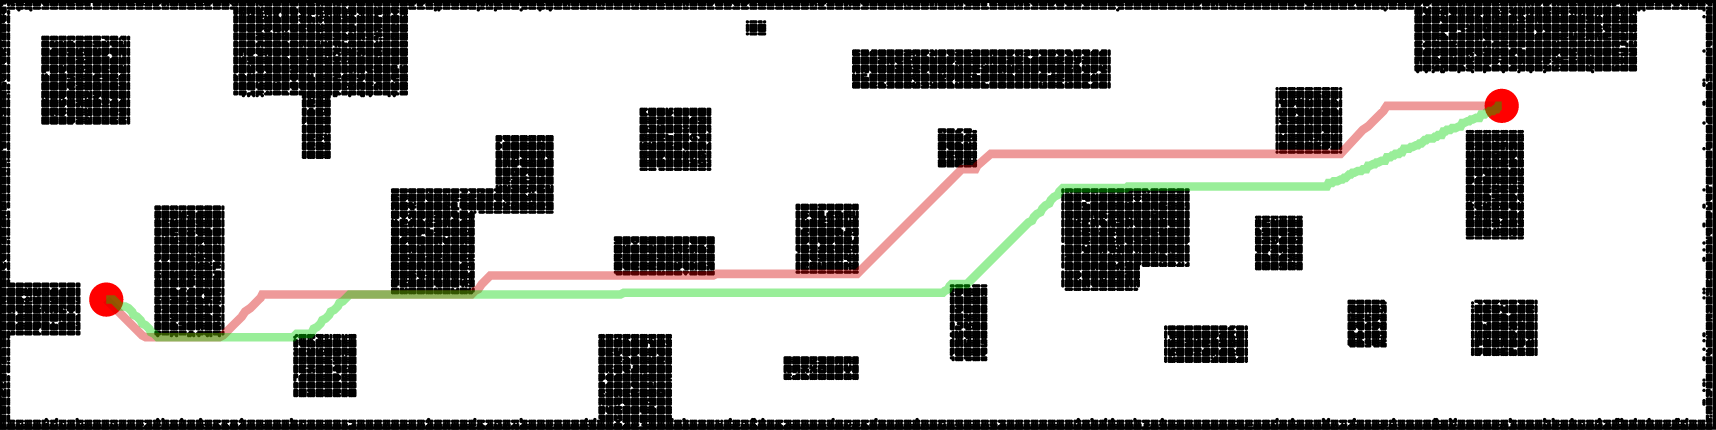
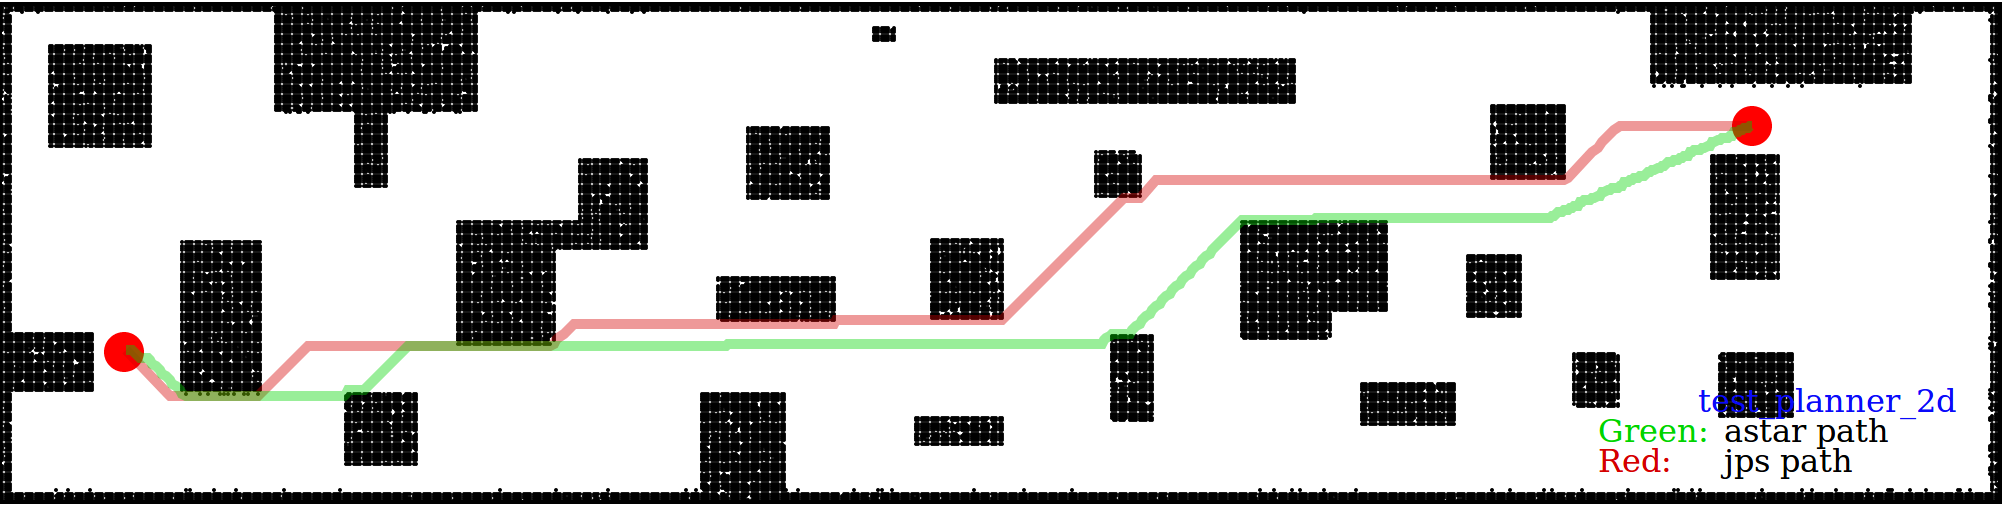
add title in the test images

diff --git a/test/test_distance_map_planner_2d.cpp b/test/test_distance_map_planner_2d.cpp
@@ -46,7 +46,7 @@ int main(int argc, char ** argv){
 
   // Set up DMP planner
   DMPlanner2D dmp(false);
-  dmp.setMapUtil(map_util); // Set map uti for collision checking
+  dmp.setMapUtil(map_util); // Set map util for collision checking
   dmp.setPotentialRadius(Vec2f(1.0, 1.0)); // Set 2D potential field radius
   dmp.setSearchRadius(Vec2f(0.5, 0.5)); // Set the valid search region around given path
 
@@ -114,6 +114,14 @@ int main(int argc, char ** argv){
     }
   }
 
+  // Draw searched region
+  for (const auto &pt : dmp.getSearchRegion()) {
+    point_2d a;
+    boost::geometry::assign_values(a, pt(0), pt(1));
+    mapper.add(a);
+    mapper.map(a, "fill-opacity:0.2;fill:rgb(100,200,100);", 1); // Green
+  }
+
   // Draw the path from JPS
   if(valid_jps) {
     vec_Vec2f path = path_jps;
@@ -131,9 +139,27 @@ int main(int argc, char ** argv){
     for(auto pt: path)
       line.push_back(point_2d(pt(0), pt(1)));
     mapper.add(line);
-    mapper.map(line, "opacity:0.4;fill:none;stroke:rgb(1,212,0);stroke-width:5"); // Green
+    mapper.map(line, "opacity:0.8;fill:none;stroke:rgb(10,10,250);stroke-width:5"); // Blue
   }
 
+  // Write title at the lower right corner on canvas
+  mapper.text(point_2d(origin_x + range_x - 11, origin_y+2.4), "test_distance_map_planner_2d",
+              "fill-opacity:1.0;fill:rgb(10,10,250);");
+
+  mapper.text(point_2d(origin_x + range_x - 13, origin_y+1.8), "Green: ",
+              "fill-opacity:1.0;fill:rgb(100,200,100);");
+  mapper.text(point_2d(origin_x + range_x - 10.5, origin_y+1.8), "search region",
+              "fill-opacity:1.0;fill:rgb(0,0,0);");
+
+  mapper.text(point_2d(origin_x + range_x - 13, origin_y+1.2), "Red: ",
+              "fill-opacity:1.0;fill:rgb(212,0,0);");
+  mapper.text(point_2d(origin_x + range_x - 10.5, origin_y+1.2), "original path",
+              "fill-opacity:1.0;fill:rgb(0,0,0);");
+
+  mapper.text(point_2d(origin_x + range_x - 13, origin_y+0.6), "Blue:",
+              "fill-opacity:1.0;fill:rgb(10,10,250);");
+  mapper.text(point_2d(origin_x + range_x - 10.5, origin_y+0.6), "perturbed path",
+              "fill-opacity:1.0;fill:rgb(0,0,0);");
 
   return 0;
 }

diff --git a/test/test_planner_2d.cpp b/test/test_planner_2d.cpp
@@ -120,6 +120,19 @@ int main(int argc, char ** argv){
     mapper.map(line, "opacity:0.4;fill:none;stroke:rgb(1,212,0);stroke-width:5"); // Green
   }
 
+  // Write title at the lower right corner on canvas
+  mapper.text(point_2d(origin_x + range_x - 6, origin_y+1.8), "test_planner_2d",
+              "fill-opacity:1.0;fill:rgb(10,10,250);");
+
+  mapper.text(point_2d(origin_x + range_x - 8, origin_y+1.2), "Green: ",
+              "fill-opacity:1.0;fill:rgb(1,212,0);");
+  mapper.text(point_2d(origin_x + range_x - 5.5, origin_y+1.2), "astar path",
+              "fill-opacity:1.0;fill:rgb(0,0,0);");
+
+  mapper.text(point_2d(origin_x + range_x - 8, origin_y+0.6), "Red: ",
+              "fill-opacity:1.0;fill:rgb(212,0,0);");
+  mapper.text(point_2d(origin_x + range_x - 5.5, origin_y+0.6), "jps path",
+              "fill-opacity:1.0;fill:rgb(0,0,0);");
 
   return 0;
 }

diff --git a/README.md b/README.md
@@ -122,7 +122,7 @@ User can easily change the location of blocks in the source code.
 ## DMP Usage
 As mentioned before, `DMPlanner` stands for distance map planner which utilizes the artificial potential field to find a safer local path around a given path for the robot to navigate.
 The key feature of this planner is its ability to push the path away from obstacles as much as possible. An example is given in the following figure
-[example_dmp.png](https://github.com/sikang/jps3d/blob/master/data/example_dmp.png), where red path is from `JPS` which is always attached to obstacles and green path is derived from `DMP` which is much safer.
+[example_dmp.png](https://github.com/sikang/jps3d/blob/master/data/example_dmp.png), where red path comes from `JPS` which is always attached to obstacles and blue path is derived from `DMP` which is much safer.
 
 ![Visualization](./data/example_dmp.png)
 
